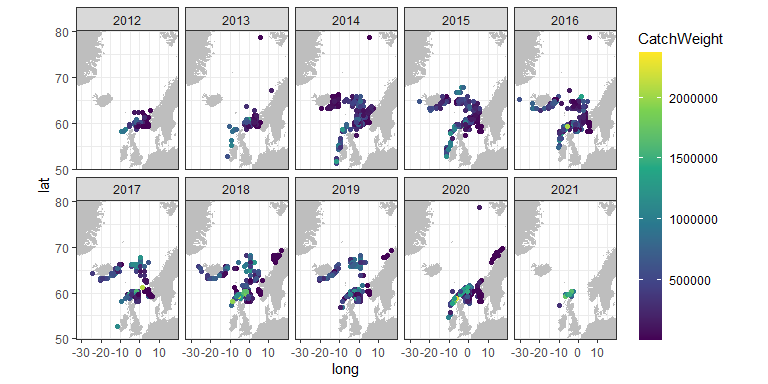
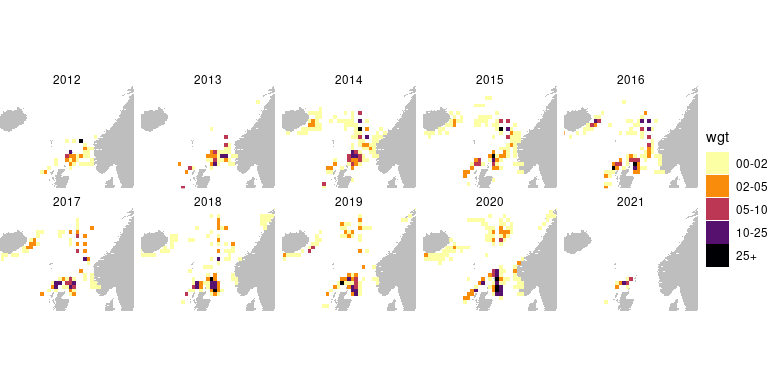
changed README.Rmd and DESCRIPTION

diff --git a/README.md b/README.md
@@ -7,13 +7,13 @@ Any use of the data on mackerel should give reference to [Slotte et al
 (2021)](#ref1). The package is planned to be extended with tagging data
 for Norwegian spring spawning herring, but this is a work in progress.
 
-The taggart package was originally developed by Einar Hjorleifsson, but
+The taggart package was originally developed by Einar Hjörleifsson, but
 Sondre Hølleland has taken over the maintenance and further development
 of the package.
 
 ## Authors’ github accounts
 
-**Einar Hjorleifsson** -
+**Einar Hjörleifsson** -
 [einarhjorleifsson](https://github.com/einarhjorleifsson)
 
 **Sondre Hølleland** - [holleland](https://github.com/holleland)
@@ -56,108 +56,108 @@ Get the data and have a peek
 
 ``` r
 tg_catches() %>% glimpse()
-#> Rows: 8,091
+#> Rows: 8,559
 #> Columns: 19
-#> $ CatchID               <chr> "2106ae1b-ea13-4b84-b8f6-0523776a9ffa", "7584...
-#> $ CatchNo               <int> 268, 553, 253, 1254, 1508, 872490, 539, 1475,...
-#> $ Nation                <chr> "IS", "IS", "IS", "IS", "IS", "IS", "IS", "IS...
-#> $ CatchDate             <chr> "2019-08-31T00:00:00", "2018-09-12T00:00:00",...
-#> $ ICES_Rectangle        <chr> "62F0", "58F0", "63E7", "58D9", "58D7", "57D7...
-#> $ ICES_Area             <chr> "IIa1", "IIa", "IIa1", "Va2", "Va2", "Va2", "...
-#> $ Factory               <chr> "IC02 Neskaupstad", "IC02 Neskaupstad", "IC02...
-#> $ FactoryICES_Rectangle <chr> "59D6", "59D6", "59D6", "59D6", "59D6", "59D6...
-#> $ ProcessingDate        <dttm> 2019-08-31 23:59:00, 2018-09-12 23:59:00, 20...
-#> $ CatchWeight           <dbl> 1153803, 698377, 893406, 356403, 482060, 5473...
-#> $ AvgFishWeight         <dbl> 0.4710, 0.4300, 0.4550, 0.4230, 0.4260, 0.484...
-#> $ BioSample             <chr> "CatchBiologyIS-Aug2019-AreaIIa", "CatchBiolo...
-#> $ FactoryID             <chr> "758459f7-a4f4-43e8-830e-06c270d2da84", "7584...
-#> $ BioSampleID           <chr> "26ce9b70-2e26-4448-987d-e704c8f15c1f", "3dd4...
-#> $ cLon                  <dbl> 0.5, 0.5, -2.5, -10.5, -12.5, -12.5, -12.5, -...
-#> $ cLat                  <dbl> 66.75, 64.75, 67.25, 64.75, 64.75, 64.25, 64....
-#> $ pLon                  <dbl> -13.5, -13.5, -13.5, -13.5, -13.5, -13.5, -13...
-#> $ pLat                  <dbl> 65.25, 65.25, 65.25, 65.25, 65.25, 65.25, 65....
-#> $ species               <chr> "mackerel", "mackerel", "mackerel", "mackerel...
+#> $ CatchID               <chr> "9beb1a3e-565e-4dd7-9252-017209ba7742", "21146dc…
+#> $ CatchNo               <int> 736, 727, 677, 842, 268, 553, 253, 792, 673, 750…
+#> $ Nation                <chr> "IS", "IS", "IS", "IS", "IS", "IS", "IS", "IS", …
+#> $ CatchDate             <chr> "2020-07-24T00:00:00", "2020-07-12T00:00:00", "2…
+#> $ ICES_Rectangle        <chr> "61E8", "55C9", "57E0", "59F0", "62F0", "58F0", …
+#> $ ICES_Area             <chr> "IIa1", "Va2", "IIa2", "IIa2", "IIa1", "IIa", "I…
+#> $ Factory               <chr> "IC02 Neskaupstad", "IC02 Neskaupstad", "IC02 Ne…
+#> $ FactoryICES_Rectangle <chr> "59D6", "59D6", "59D6", "59D6", "59D6", "59D6", …
+#> $ ProcessingDate        <dttm> 2020-07-26 23:59:00, 2020-07-14 23:59:00, 2020-…
+#> $ CatchWeight           <dbl> 391528, 0, 2831, 346646, 1153803, 698377, 893406…
+#> $ AvgFishWeight         <dbl> 0.5540, 0.4870, 0.5440, 0.3870, 0.4710, 0.4300, …
+#> $ BioSample             <chr> NA, NA, NA, NA, "CatchBiologyIS-Aug2019-AreaIIa"…
+#> $ FactoryID             <chr> "758459f7-a4f4-43e8-830e-06c270d2da84", "758459f…
+#> $ BioSampleID           <chr> NA, NA, NA, NA, "26ce9b70-2e26-4448-987d-e704c8f…
+#> $ cLon                  <dbl> -1.5, -20.5, -9.5, 0.5, 0.5, 0.5, -2.5, 1.5, -16…
+#> $ cLat                  <dbl> 66.25, 63.25, 64.25, 65.25, 66.75, 64.75, 67.25,…
+#> $ pLon                  <dbl> -13.5, -13.5, -13.5, -13.5, -13.5, -13.5, -13.5,…
+#> $ pLat                  <dbl> 65.25, 65.25, 65.25, 65.25, 65.25, 65.25, 65.25,…
+#> $ species               <chr> "mackerel", "mackerel", "mackerel", "mackerel", …
 tg_catches_bio() %>% glimpse()
-#> Rows: 35,599
+#> Rows: 41,303
 #> Columns: 18
-#> $ IndividualFishID <chr> "5a96ebe8-6394-4cb3-815a-0000c46a9144", "0661f4ef-...
-#> $ StationNo        <chr> "8089", "8018", "35", "8093", "16", "50", "58", "3...
-#> $ SampleNo         <chr> "38089", "38018", "38035", "38093", "38016", "3805...
-#> $ Nation           <chr> "74", "58", "58", "74", "45", "58", "58", "58", "F...
-#> $ CatchGear        <chr> "3500", "3712", "3712", "3500", "16.02.1910", "16....
-#> $ CatchDate        <dttm> 2015-10-29, 2014-09-16, 2019-10-13, 2015-10-25, 2...
-#> $ Longitude        <dbl> -1.5000000, 1.0166667, -1.5000000, -1.5000000, -6....
-#> $ Latitude         <dbl> 60.25000, 63.60000, 59.25000, 60.25000, 59.25000, ...
-#> $ ICES_Rectangle   <chr> "49E8", "56F1", "47E8", "49E8", "47E3", "48E9", "4...
-#> $ ICES_Area        <chr> "IVa", "IIa2", "IVa", "IVa", "VIa", "IVa", "IVa", ...
-#> $ FishNo           <chr> "28", "10", "4", "20", "5", "5", "1", "6", "46", "...
-#> $ Weight           <dbl> 0.4920, 0.3730, 0.3060, 0.3100, 0.3890, 0.3640, 0....
-#> $ Length           <dbl> 0.38, 0.36, 0.32, 0.33, 0.37, 0.34, 0.40, 0.36, 0....
-#> $ sex              <int> 1, 2, 2, 1, 1, 1, 2, 2, 1, 1, 1, 1, 1, 1, 1, 2, 2,...
-#> $ Maturity         <int> 3, 8, 8, 8, 3, 8, 8, 8, 8, 2, 4, 8, 8, 6, 8, 6, 8,...
-#> $ Age              <int> 8, 5, 3, 5, 7, 4, 12, 7, 4, 1, 11, 9, 8, 5, 2, 5, ...
-#> $ YearClass        <int> 2007, 2009, 2016, 2010, 2011, 2014, 2007, 2010, 20...
-#> $ Species          <chr> "mackerel", "mackerel", "mackerel", "mackerel", "m...
+#> $ IndividualFishID <chr> "5a96ebe8-6394-4cb3-815a-0000c46a9144", "0661f4ef-e75…
+#> $ StationNo        <chr> "8089", "8018", "35", "8093", "16", "50", "58", "36",…
+#> $ SampleNo         <chr> "38089", "38018", "38035", "38093", "38016", "38050",…
+#> $ Nation           <chr> "74", "58", "58", "74", "45", "58", "58", "58", "FO",…
+#> $ CatchGear        <chr> "3500", "3712", "3712", "3500", "16.02.1910", "16.02.…
+#> $ CatchDate        <dttm> 2015-10-29, 2014-09-16, 2019-10-13, 2015-10-25, 2018…
+#> $ Longitude        <dbl> -1.500000, 1.016667, -1.500000, -1.500000, -6.500000,…
+#> $ Latitude         <dbl> 60.25000, 63.60000, 59.25000, 60.25000, 59.25000, 59.…
+#> $ ICES_Rectangle   <chr> "49E8", "56F1", "47E8", "49E8", "47E3", "48E9", "46E8…
+#> $ ICES_Area        <chr> "IVa", "IIa2", "IVa", "IVa", "VIa", "IVa", "IVa", "II…
+#> $ FishNo           <chr> "28", "10", "4", "20", "5", "5", "1", "6", "46", "16"…
+#> $ Weight           <dbl> 0.4920, 0.3730, 0.3060, 0.3100, 0.3890, 0.3640, 0.491…
+#> $ Length           <dbl> 0.38, 0.36, 0.32, 0.33, 0.37, 0.34, 0.40, 0.36, 0.33,…
+#> $ sex              <int> 1, 2, 2, 1, 1, 1, 2, 2, 1, 1, 1, 1, 1, 1, 1, 2, 2, 1,…
+#> $ Maturity         <int> 3, 8, 8, 8, 3, 8, 8, 8, 8, 2, 4, 8, 8, 6, 8, 7, 6, 6,…
+#> $ Age              <int> 8, 5, 3, 5, 7, 4, 12, 7, 4, 1, 11, 9, 8, 5, 2, 5, 5, …
+#> $ YearClass        <int> 2007, 2009, 2016, 2010, 2011, 2014, 2007, 2010, 2010,…
+#> $ Species          <chr> "mackerel", "mackerel", "mackerel", "mackerel", "mack…
 tg_catches_link() %>% glimpse()
-#> Rows: 41,308
+#> Rows: 45,008
 #> Columns: 2
-#> $ BioSampleID      <chr> "2a57fb1b-300e-48ee-b27d-03e4fe1c99fd", "2a57fb1b-...
-#> $ IndividualFishID <chr> "ee6dd054-9274-4ee3-b564-00f233cc941e", "437eaf99-...
+#> $ BioSampleID      <chr> "2a57fb1b-300e-48ee-b27d-03e4fe1c99fd", "2a57fb1b-300…
+#> $ IndividualFishID <chr> "ee6dd054-9274-4ee3-b564-00f233cc941e", "437eaf99-21c…
 tg_expeditions() %>% glimpse()
-#> Rows: 457,292
+#> Rows: 490,182
 #> Columns: 19
-#> $ Expedition     <chr> "2020816", "2019839", "2016832", "2011808", "2017837...
-#> $ ExperimentNo   <chr> "84", "76", "53", "7", "62", "79", "16", "1070", "11...
-#> $ ReleaseNo      <chr> "8", "4", "1", "3", "2", "7", "4", "4", "2", "4", "2...
-#> $ ReleaseDate    <dttm> 2020-05-12 11:22:52, 2019-05-10 08:38:34, 2016-05-2...
-#> $ ReleaseBirds   <chr> "Lots", "Lots", "Medium", NA, "None", "Medium", NA, ...
-#> $ ReleaseWaves   <chr> "Lots", "None", "Medium", NA, "None", "Medium", NA, ...
-#> $ ICES_Rectangle <chr> "48E4", "38D9", "32D9", "32D7", "38E0", "33D8", "34D...
-#> $ Tagger         <chr> "MK", "EH", "JR", "JHN", "JR", "OS", "JR", "JR", "JR...
-#> $ Assistant      <chr> "EH", "FB", "FB", NA, "FB", "SK", NA, "FA", NA, "ALJ...
-#> $ RFID           <chr> "900153000135377", "900153000105720", "9001960002960...
-#> $ Length         <dbl> 35, 34, 35, 35, 37, 38, 34, 36, 27, 36, 36, 34, 36, ...
-#> $ Longitude      <dbl> -5.050000, -10.250000, -10.811360, -12.271990, -9.65...
-#> $ Latitude       <dbl> 59.95000, 54.77000, 51.75225, 51.96140, 54.77324, 52...
-#> $ RecaptureDate  <dttm> NA, NA, NA, NA, NA, NA, NA, NA, NA, NA, NA, NA, NA,...
-#> $ CatchID        <chr> NA, NA, NA, NA, NA, NA, NA, NA, NA, NA, NA, NA, NA, ...
-#> $ FactoryID      <chr> NA, NA, NA, NA, NA, NA, NA, NA, NA, NA, NA, NA, NA, ...
-#> $ BioSample      <chr> "ReleaseSample2020-2", "ReleaseSample2019", "Release...
-#> $ BioSampleID    <chr> "86e3d69b-24f3-44f5-a0a1-008510987f44", "e0d58869-c1...
-#> $ species        <chr> "mackerel", "mackerel", "mackerel", "mackerel", "mac...
+#> $ Expedition     <chr> "2014809", "2014809", "2014809", "2014809", "2014809", …
+#> $ ExperimentNo   <chr> "27", "27", "27", "27", "27", "27", "27", "27", "27", "…
+#> $ ReleaseNo      <chr> "3", "3", "3", "3", "3", "3", "3", "3", "3", "3", "3", …
+#> $ ReleaseDate    <dttm> 2014-05-14 11:20:35, 2014-05-14 23:31:13, 2014-05-14 2…
+#> $ ReleaseBirds   <chr> "Medium", "Medium", "Medium", "Medium", "Medium", "Medi…
+#> $ ReleaseWaves   <chr> "Medium", "Medium", "Medium", "Medium", "Medium", "Medi…
+#> $ ICES_Rectangle <chr> "38E0", "38E0", "38E0", "38E0", "38E0", "38E0", "38E0",…
+#> $ Tagger         <chr> "JR", "JR", "JR", "JR", "EH", "EH", "EH", "JR", "EH", "…
+#> $ Assistant      <chr> "ALJ", "ALJ", "ALJ", "ALJ", "OS", "OS", "OS", "ALJ", "O…
+#> $ RFID           <chr> "900196000189545", "900196000194648", "900196000189056"…
+#> $ Length         <dbl> 39, 36, 37, 36, 34, 31, 37, 34, 36, 37, 36, 37, 38, 37,…
+#> $ Longitude      <dbl> -9.77022, -9.71365, -9.68958, -9.68849, -9.70177, -9.76…
+#> $ Latitude       <dbl> 54.90946, 54.83777, 54.81990, 54.81756, 54.82935, 54.90…
+#> $ RecaptureDate  <dttm> NA, NA, NA, NA, NA, NA, NA, NA, NA, NA, NA, NA, NA, NA…
+#> $ CatchID        <chr> NA, NA, NA, NA, NA, NA, NA, NA, NA, NA, NA, NA, NA, NA,…
+#> $ FactoryID      <chr> NA, NA, NA, NA, NA, NA, NA, NA, NA, NA, NA, NA, NA, NA,…
+#> $ BioSample      <chr> "ReleaseSample2014", "ReleaseSample2014", "ReleaseSampl…
+#> $ BioSampleID    <chr> "b1dbe643-2580-45b5-ae90-1e79bb9fc62d", "b1dbe643-2580-…
+#> $ species        <chr> "mackerel", "mackerel", "mackerel", "mackerel", "macker…
 tg_expeditions_bio() %>% glimpse()
 #> Rows: 6,668
 #> Columns: 18
-#> $ IndividualFishID <chr> "304588b2-837d-419c-8953-0001097bf418", "2208bc71-...
-#> $ StationNo        <chr> "MMGE2-2017", "6", "7", "27", "75", "MAKR-2019-46"...
-#> $ SampleNo         <chr> "2", "37356", "37207", "37527", "86225", "501121",...
-#> $ Nation           <chr> "ICE", "58", "58", "NO", "58", "IS", "58", "58", "...
-#> $ CatchGear        <chr> "3", "1", "5211", "5211", "3712", "7", "5211", "52...
-#> $ CatchDate        <dttm> 2017-08-17, 2017-05-11, 2012-05-16, 2015-06-03, 2...
-#> $ Longitude        <dbl> -23.916667, -10.366667, -12.016667, -9.350000, 1.3...
-#> $ Latitude         <dbl> 64.73333, 54.78333, 52.96667, 56.16667, 60.43167, ...
-#> $ ICES_Rectangle   <chr> "58C6", "38D9", "34D7", "41E0", "49F1", "57C5", "3...
-#> $ ICES_Area        <chr> "Va2", "VIIb", "VIIc", "VIa", "IVa", "Va2", "VIIk2...
-#> $ FishNo           <chr> "8", "17", "47", "17", "11", "5", "14", "34", "12"...
-#> $ Weight           <dbl> 0.6666, 0.3310, 0.4340, 0.2810, 0.3580, 0.5010, 0....
-#> $ Length           <dbl> 0.40, 0.36, 0.39, 0.31, 0.33, 0.37, 0.37, 0.41, 0....
-#> $ sex              <int> 2, 2, 1, 1, 2, 1, 2, 1, 2, 1, 1, 2, 1, 1, 2, 1, 1,...
-#> $ Maturity         <int> 6, 8, 6, 6, 8, 6, 6, 7, 8, 6, 6, 6, 6, 7, 8, 6, 5,...
-#> $ Age              <int> 10, 6, 10, 3, 4, 7, 8, 11, 6, 3, 11, 11, 6, 9, 6, ...
-#> $ YearClass        <int> 2007, 2011, 2002, 2012, 2007, 2012, 2010, 2007, 20...
-#> $ species          <chr> "mackerel", "mackerel", "mackerel", "mackerel", "m...
+#> $ IndividualFishID <chr> "304588b2-837d-419c-8953-0001097bf418", "2208bc71-4c6…
+#> $ StationNo        <chr> "MMGE2-2017", "6", "7", "27", "75", "MAKR-2019-46", "…
+#> $ SampleNo         <chr> "2", "37356", "37207", "37527", "86225", "501121", "3…
+#> $ Nation           <chr> "ICE", "58", "58", "NO", "58", "IS", "58", "58", "58"…
+#> $ CatchGear        <chr> "3", "1", "5211", "5211", "3712", "7", "5211", "5211"…
+#> $ CatchDate        <dttm> 2017-08-17, 2017-05-11, 2012-05-16, 2015-06-03, 2011…
+#> $ Longitude        <dbl> -23.916667, -10.366667, -12.016667, -9.350000, 1.3450…
+#> $ Latitude         <dbl> 64.73333, 54.78333, 52.96667, 56.16667, 60.43167, 64.…
+#> $ ICES_Rectangle   <chr> "58C6", "38D9", "34D7", "41E0", "49F1", "57C5", "32D8…
+#> $ ICES_Area        <chr> "Va2", "VIIb", "VIIc", "VIa", "IVa", "Va2", "VIIk2", …
+#> $ FishNo           <chr> "8", "17", "47", "17", "11", "5", "14", "34", "12", "…
+#> $ Weight           <dbl> 0.6666, 0.3310, 0.4340, 0.2810, 0.3580, 0.5010, 0.367…
+#> $ Length           <dbl> 0.40, 0.36, 0.39, 0.31, 0.33, 0.37, 0.37, 0.41, 0.37,…
+#> $ sex              <int> 2, 2, 1, 1, 2, 1, 2, 1, 2, 1, 1, 2, 1, 1, 2, 1, 1, 2,…
+#> $ Maturity         <int> 6, 8, 6, 6, 8, 6, 6, 7, 8, 6, 6, 6, 6, 7, 8, 6, 5, 8,…
+#> $ Age              <int> 10, 6, 10, 3, 4, 7, 8, 11, 6, 3, 11, 11, 6, 9, 6, 10,…
+#> $ YearClass        <int> 2007, 2011, 2002, 2012, 2007, 2012, 2010, 2007, 2005,…
+#> $ species          <chr> "mackerel", "mackerel", "mackerel", "mackerel", "mack…
 tg_expeditions_link() %>% glimpse()
 #> Rows: 8,030
 #> Columns: 2
-#> $ BioSampleID      <chr> "86e3d69b-24f3-44f5-a0a1-008510987f44", "86e3d69b-...
-#> $ IndividualFishID <chr> "2fb3eeb8-7c34-4482-aec0-00915374b438", "17e45eab-...
+#> $ BioSampleID      <chr> "86e3d69b-24f3-44f5-a0a1-008510987f44", "86e3d69b-24f…
+#> $ IndividualFishID <chr> "2fb3eeb8-7c34-4482-aec0-00915374b438", "17e45eab-10c…
 tg_outoforder() %>% glimpse()
-#> Rows: 9
+#> Rows: 10
 #> Columns: 4
-#> $ Reason    <chr> "Noise issues", "Noise issues", "Noise issues", "Noise is...
-#> $ FactoryID <chr> "d1387244-62db-4f97-aae3-cd8c153a8612", "e6daec23-0122-43...
-#> $ start     <chr> "2018-01-01T00:00:00", "2018-01-01T00:00:00", "2014-01-01...
-#> $ end       <chr> "2018-12-31T00:00:00", "2019-12-31T00:00:00", "2017-12-31...
+#> $ Reason    <chr> "Noise issues", "Noise issues", "Noise issues", "Noise issue…
+#> $ FactoryID <chr> "d1387244-62db-4f97-aae3-cd8c153a8612", "56da9ded-60f7-4a8b-…
+#> $ start     <chr> "2018-01-01T00:00:00", "2020-06-01T00:00:00", "2018-01-01T00…
+#> $ end       <chr> "2018-12-31T00:00:00", "2020-12-31T00:00:00", "2021-01-04T00…
 ```
 
 ## Plot map of recaptures
@@ -166,6 +166,7 @@ As an example, we can download the catch data using the API and create a
 plot of the catches by year.
 
 ``` r
+library(dplyr)
 library(ggplot2)
 library(lubridate)
 # Download the data
@@ -174,19 +175,32 @@ d <- tg_catches()
 # Calculate range of longitudes and latitudes
 xlim = range(d$cLon)
 ylim = range(d$cLat)
+xlim = quantile(d$cLon, probs = c(0.01, 0.99))
+ylim = quantile(d$cLat, probs = c(0.01, 0.99))
+
 # Get map: 
 m <- ggplot2::map_data("world",
                        xlim = xlim * c(0.9, 1.1),
                        ylim = ylim * c(0.9, 1.1))
 # Create plot: 
-ggplot() +
+d %>% 
+  mutate(year = year(CatchDate)) %>% 
+  group_by(year, cLon, cLat) %>% 
+  summarise(wgt = sum(CatchWeight) / 1e6,
+            .groups = "drop") %>% 
+  mutate(wgt = case_when(wgt <  2 ~ "00-02",
+                         wgt <  5 ~ "02-05",
+                         wgt < 10 ~ "05-10",
+                         wgt < 25 ~ "10-25",
+                         TRUE ~ "25+")) %>% 
+  ggplot() +
+  theme_void() +
   geom_polygon(data = m, aes(long, lat, group = group), fill = "grey") +
-  geom_point(data = d, aes(cLon, cLat, col = CatchWeight)) +
+  geom_tile(aes(cLon, cLat, fill = wgt)) +
   coord_quickmap(xlim = xlim, ylim = ylim) +
-  facet_wrap( ~year(CatchDate), ncol = 5) +
-  theme_bw()+
+  facet_wrap( ~year, ncol = 5) +
   guides(color = guide_colorbar(barheight = 15))+
-  scale_color_viridis_c()
+  scale_fill_viridis_d(option = "B", direction = -1)
 ```
 
 <img src="man/figures/README-unnamed-chunk-4-1.png" width="100%" />
